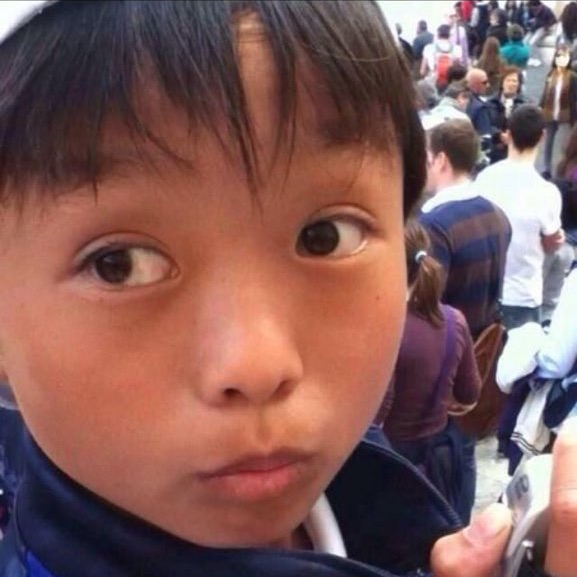
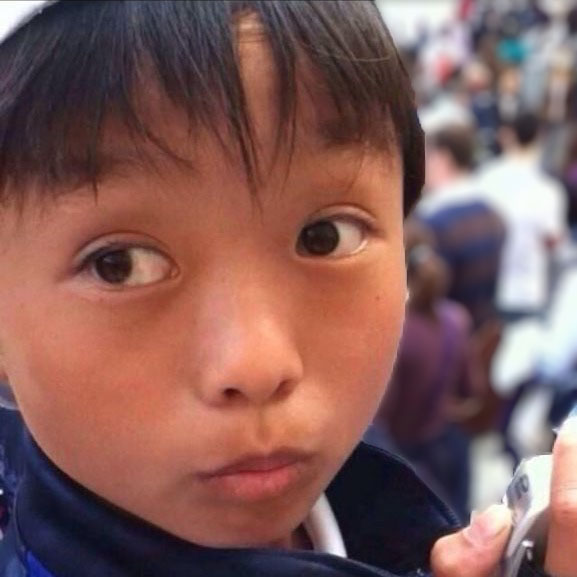
embedded Oi's picture and updated Sato's picture

diff --git a/html/index.html b/html/index.html
@@ -400,7 +400,7 @@
 			<div class="col s12 m3">
                 <div class="card card-avatar">
                     <div class="waves-effect waves-block waves-light">
-                        <a href="#"><img class="activator" src="img/avatar3.png"></a>
+                        <a href="#"><img class="activator" src="img/oi.jpg"></a>
                     </div>
                     <div class="card-content">
                         <span class="card-title activator grey-text text-darken-4">	大井　也史<br/>
